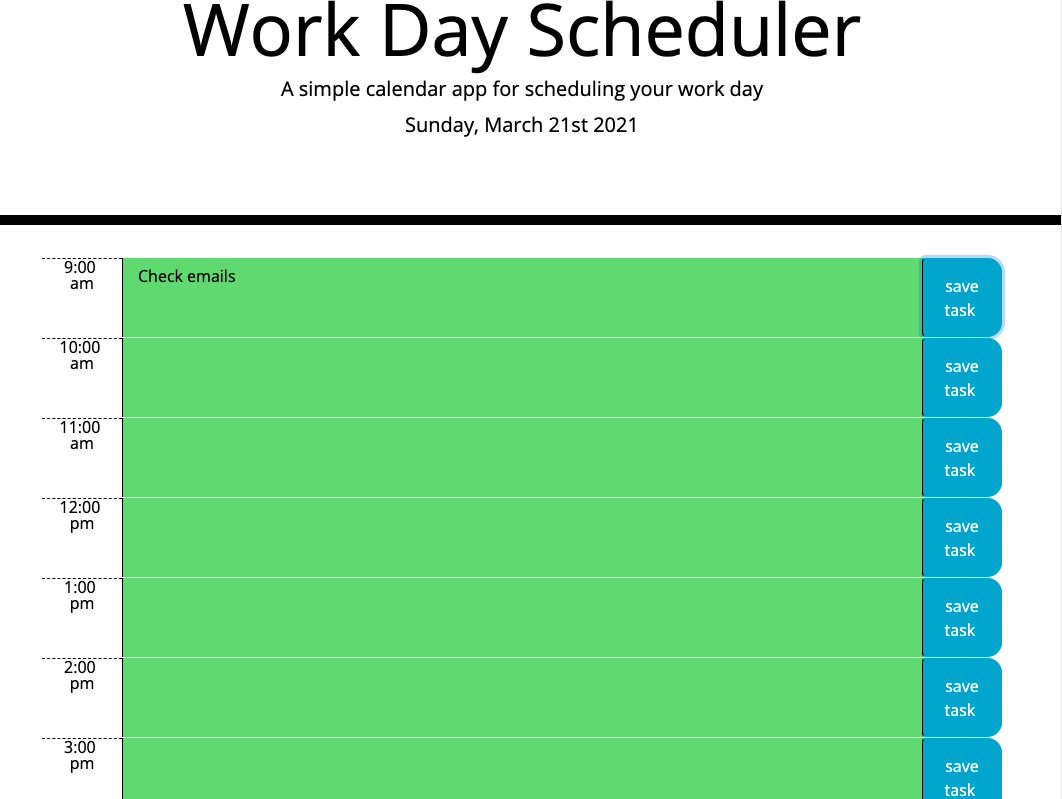
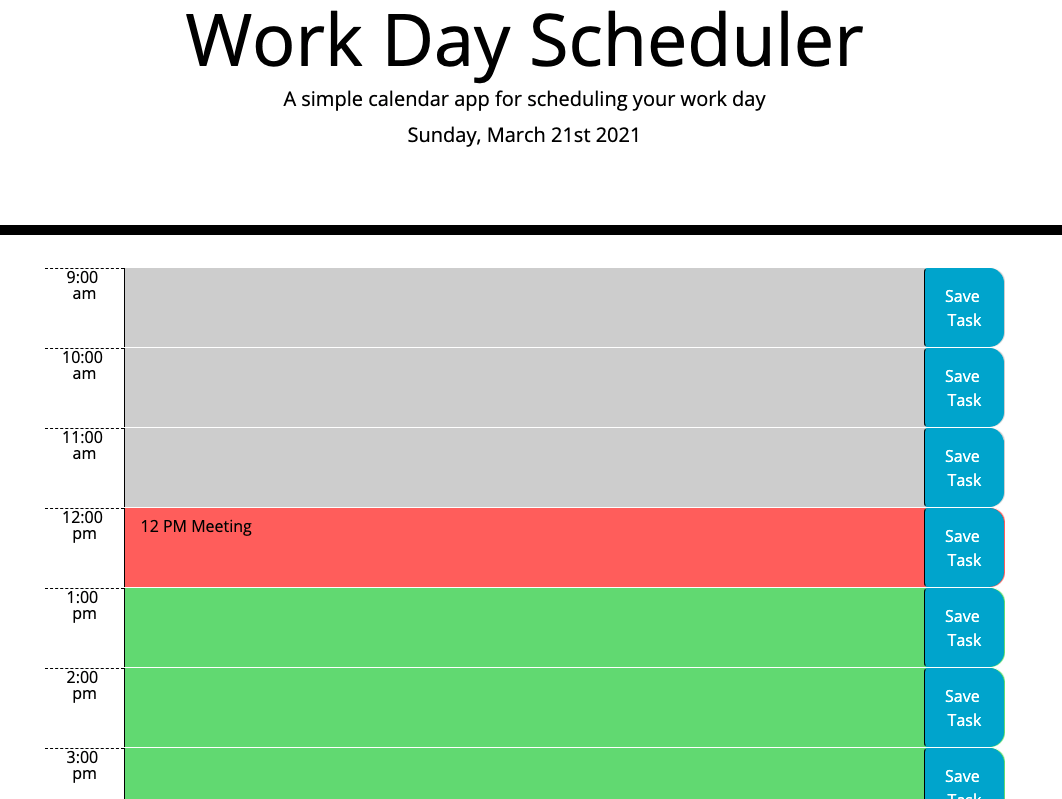
added screenshot

diff --git a/assets/script.js b/assets/script.js
@@ -6,10 +6,7 @@ var Now = moment().format('dddd, MMMM Do YYYY');
 var display = document.getElementById('currentDay');
 display.innerHTML = Now
 
-/* $(document).ready(function () {
-  // display current date at top in div id currentDay
-  var currentDate = moment().format("dddd, MMM Do YYYY");
-  $("#currentDay").html(currentDate); */
+
 
   $(".saveBtn").on("click", function () {
     //input fields
@@ -55,7 +52,7 @@ display.innerHTML = Now
       });
     }
   hourTracker();
-/* }); */
+
 
 
 
